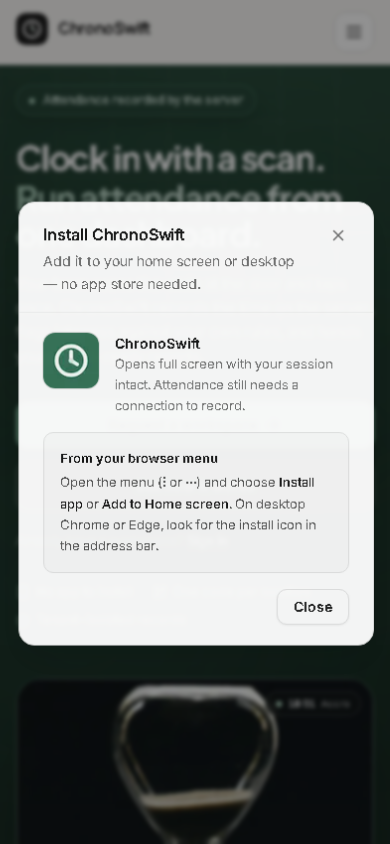
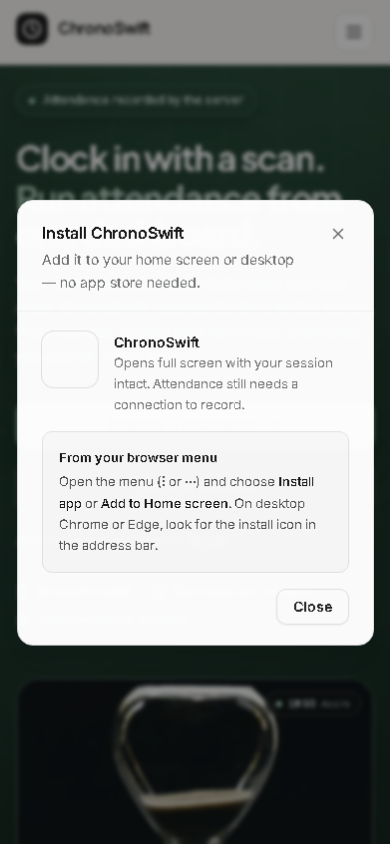
Verify install buttons against the deployed site
Login helper now waits for hydration and retries, and the topbar check waits
for the streamed shell instead of sampling once. 14/14 checks pass locally and
against chronoswift.vercel.app; report updated.

diff --git a/output/subscription-upgrade-report.md b/output/subscription-upgrade-report.md
@@ -240,10 +240,11 @@ reason. `app/layout.tsx` now stashes the event in an inline `<head>` script
 (`window.__chronoInstallPrompt`) and broadcasts `chrono:install-available`; the hook picks up the
 stashed event on mount. That is why the native-prompt test passes against a cold page load.
 
-Verified (`output/install-buttons-check.mjs`, 13/13 against a production build): labelled header
-button at 1440, icon button at 1100, mobile menu row opens the dialog and the menu closes behind
-it, closing CTA present, dialog explains the browser-menu path, synthetic
+Verified (`output/install-buttons-check.mjs`, 14/14 against a production build **and** against
+the deployed site at `https://chronoswift.vercel.app`): dashboard login reaches `/dashboard`,
+labelled header button at 1440, icon button at 1100, mobile menu row opens the dialog and the
+menu closes behind it, closing CTA present, dialog explains the browser-menu path, synthetic
 `beforeinstallprompt` is used and suppresses the dialog, buttons disappear under
-`display-mode: standalone`, and the dashboard topbar button opens the dialog when signed in.
+`display-mode: standalone`, and the dashboard topbar button opens the dialog.
 
 
